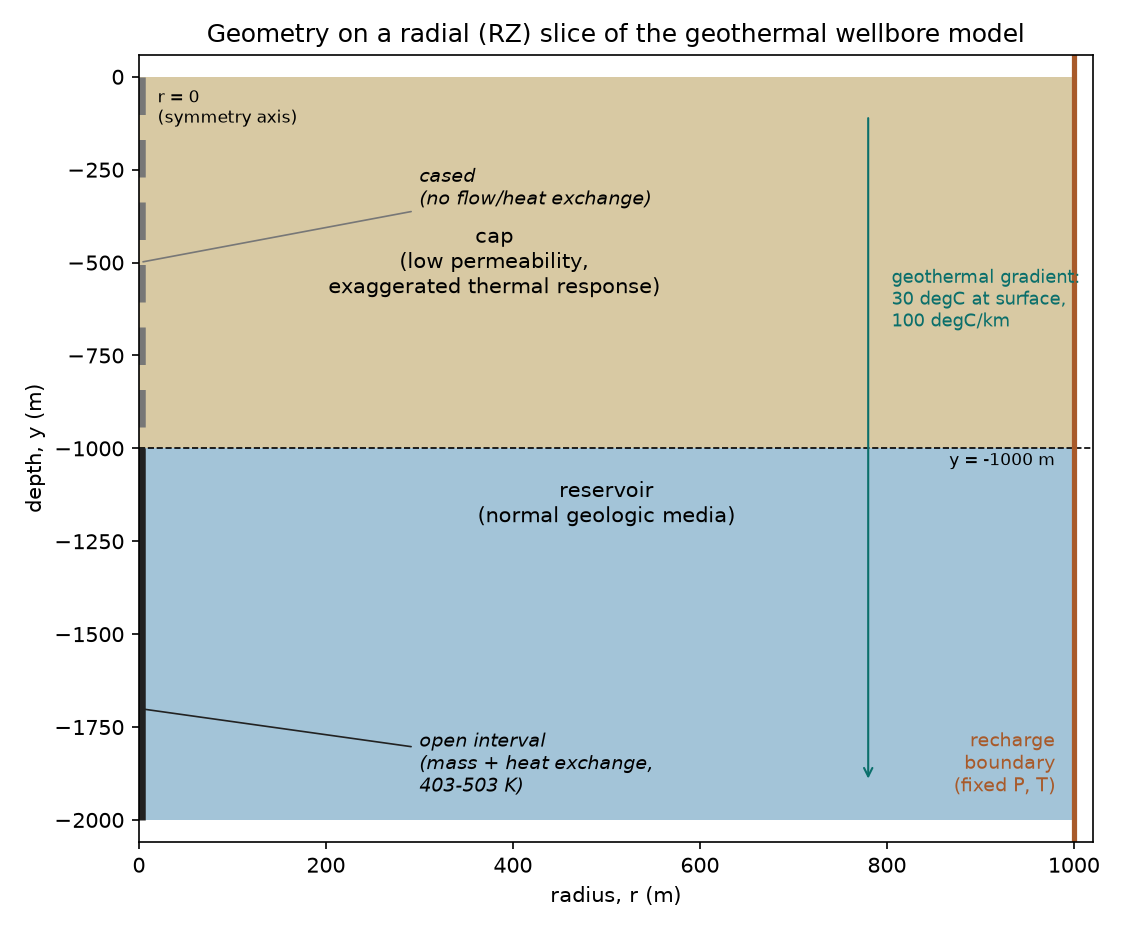
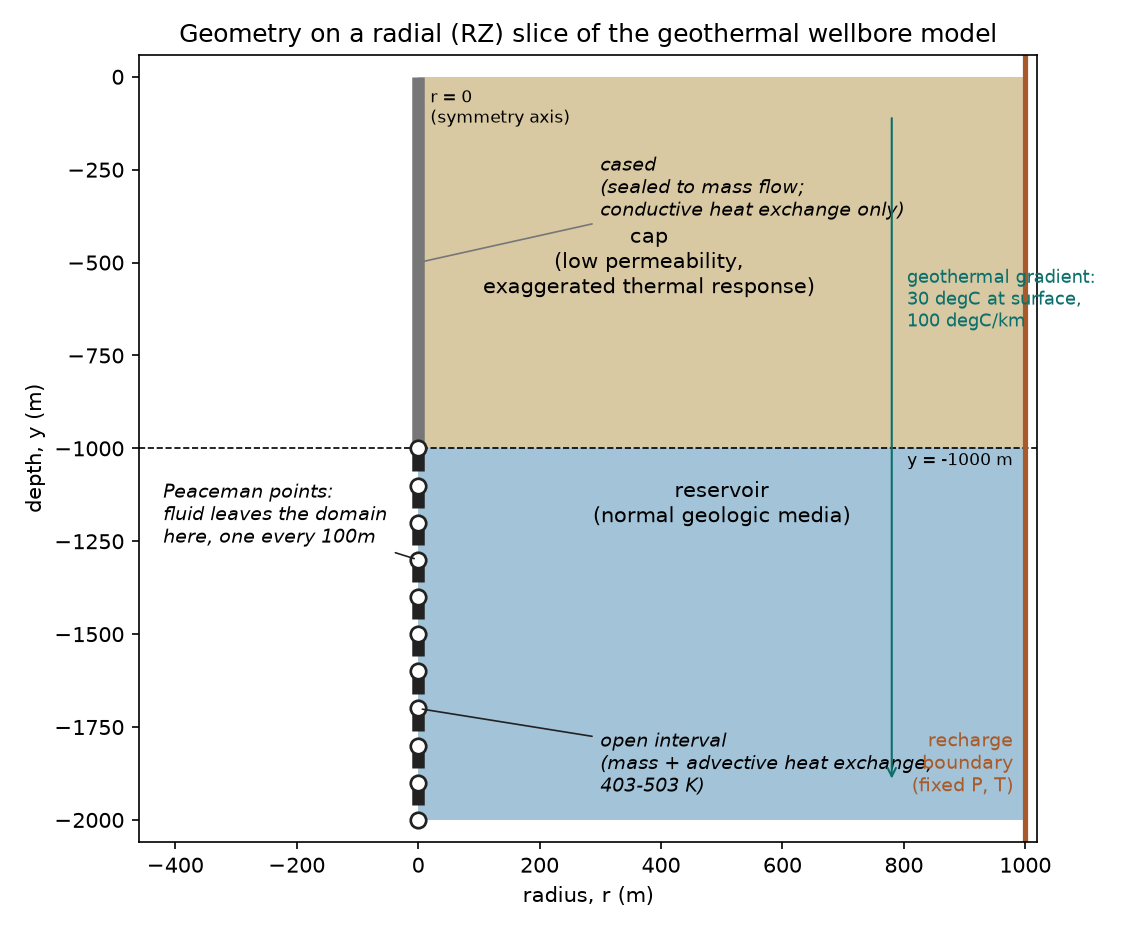
Document the cased-section heat exchange in the example write-up
Split the Introduction into two subsections (thermal fluid production,
borehole heat exchange), the latter now explaining both heat-exchange
mechanisms with their governing equations: the advective open-interval
term, and PorousFlowCasedBoreholeHeatExchange's derived-temperature ODE
and its closed-form exponential-relaxation solution, including the
mass-flux-weighted mixing temperature and the thermal-pressurization
constraint on heat_transfer_coefficient.

Revise the geometry schematic: the well line is now dashed over the
open interval (where fluid can enter) and solid over the cased section
(sealed to mass flow), with the 11 discrete Peaceman points marked
along the open interval to show exactly where fluid leaves the
formation - previously the dashed/solid mapping was reversed and no
points were shown.

Add a new cap_temperature_radial LineValueSampler (mid-cap depth,
y=-500) and a new plot_results.py figure showing temperature vs.
radius there at several times through the run, to visualize the small
radial thermal signal developing inside the cap itself, distinct from
the existing final-timestep snapshot at the cap/reservoir interface.

diff --git a/examples/geothermal_wellbore/make_schematic.py b/examples/geothermal_wellbore/make_schematic.py
@@ -12,6 +12,11 @@ Y_SURFACE = 0.0
 Y_INTERFACE = -1000.0  # cap/reservoir boundary, also the well's cased/open boundary
 Y_BOTTOM = -2000.0
 
+# The 11 Peaceman points where withdraw_fluid/withdraw_heat are active (well_character=1,
+# geothermal_wellbore.bh points y=-1000 to y=-2000 in 100m steps) - the only points where fluid
+# actually crosses from the formation into the well.
+OPEN_POINTS = [Y_INTERFACE - 100.0 * i for i in range(11)]
+
 
 def main():
     fig, ax = plt.subplots(figsize=(7.5, 6.2))
@@ -28,17 +33,33 @@ def main():
             ha="center", va="center", fontsize=10)
 
     # Well, drawn as a bold line at r=0 (true radius 0.1m, far too thin to draw to scale) -
-    # dashed/grey for the cased section, solid/dark for the open (perforated) section.
+    # solid where the casing seals the well off from the formation (no mass can cross; only
+    # PorousFlowCasedBoreholeHeatExchange's conductive heat exchange applies), dashed where the
+    # well is open to the formation and fluid can actually cross into it. Dashes are drawn as
+    # explicit short segments in data coordinates (one dash+gap per 100m Peaceman spacing)
+    # rather than via a point-based linestyle, which doesn't read clearly at this linewidth.
     ax.plot([0, 0], [Y_SURFACE, Y_INTERFACE], color="#777777", linewidth=6,
-            linestyle=(0, (3, 2)), solid_capstyle="butt", zorder=2)
-    ax.plot([0, 0], [Y_INTERFACE, Y_BOTTOM], color="#222222", linewidth=6,
             solid_capstyle="butt", zorder=2)
+    dash_len = 60.0  # of each 100m point-to-point segment; the rest is the gap
+    for y0 in OPEN_POINTS[:-1]:
+        ax.plot([0, 0], [y0, y0 - dash_len], color="#222222", linewidth=6,
+                solid_capstyle="butt", zorder=2)
 
-    ax.annotate("cased\n(no flow/heat exchange)", xy=(0, -500), xytext=(R_MAX * 0.30, -300),
+    # Peaceman points along the open interval - the discrete locations where mass (and, via the
+    # enthalpy it carries, heat) actually leaves the formation and enters the well.
+    ax.scatter([0] * len(OPEN_POINTS), OPEN_POINTS, s=55, facecolor="white",
+               edgecolor="#222222", linewidth=1.3, zorder=3)
+
+    ax.annotate("cased\n(sealed to mass flow;\nconductive heat exchange only)",
+                xy=(0, -500), xytext=(R_MAX * 0.30, -300),
                 fontsize=9, style="italic", ha="left", va="center",
                 arrowprops=dict(arrowstyle="-", color="#777777", lw=0.8))
-    ax.annotate("open interval\n(mass + heat exchange,\n403-503 K)", xy=(0, -1700),
+    ax.annotate("open interval\n(mass + advective heat exchange,\n403-503 K)", xy=(0, -1700),
                 xytext=(R_MAX * 0.30, -1850), fontsize=9, style="italic", ha="left", va="center",
+                arrowprops=dict(arrowstyle="-", color="#222222", lw=0.8))
+    ax.annotate("Peaceman points:\nfluid leaves the domain\nhere, one every 100m",
+                xy=(0, OPEN_POINTS[3]), xytext=(-R_MAX * 0.42, OPEN_POINTS[3] + 120),
+                fontsize=9, style="italic", ha="left", va="center",
                 arrowprops=dict(arrowstyle="-", color="#222222", lw=0.8))
 
     # Interface line
@@ -61,7 +82,7 @@ def main():
             "geothermal gradient:\n30 degC at surface,\n100 degC/km",
             fontsize=8.5, color="#0b6f6b", va="center")
 
-    ax.set_xlim(0, R_MAX * 1.02)
+    ax.set_xlim(-R_MAX * 0.46, R_MAX * 1.02)
     ax.set_ylim(Y_BOTTOM * 1.03, 60)
     ax.set_xlabel("radius, r (m)")
     ax.set_ylabel("depth, y (m)")

diff --git a/examples/geothermal_wellbore/plot_results.py b/examples/geothermal_wellbore/plot_results.py
@@ -40,6 +40,20 @@ def load_final_line(prefix, sampler):
     return pd.read_csv(files[-1])
 
 
+def load_lines_near_times(prefix, sampler, target_times):
+    """Load the sampler output file closest to each target time (seconds), skipping index 0
+    (this model's VectorPostprocessors report empty output at t=0). File index N is assumed to
+    align with row N of the main CSV (both advance one-for-one with accepted timesteps), which
+    holds as long as the run has no cut/retried timesteps."""
+    files = sorted(glob.glob(f"{prefix}_out_{sampler}_*.csv"))[1:]
+    times = load_main(prefix)["time"].to_numpy()[1:]
+    selected = []
+    for target in target_times:
+        idx = int(abs(times - target).argmin())
+        selected.append((times[idx], pd.read_csv(files[idx])))
+    return selected
+
+
 def main():
     old, new = load_main(OLD), load_main(NEW)
 
@@ -132,6 +146,25 @@ def main():
     fig.tight_layout()
     fig.savefig("temperature_halo.png", dpi=150)
     print("Saved temperature_halo.png")
+
+    # 5. Temperature vs. radius at mid-cap depth (y=-500), at a handful of times through the
+    # run - shows the radial thermal signal developing inside the cap itself (unit_weight_fp
+    # variant only, since the point is the cased-section heat exchange's own effect, not the
+    # pressure-treatment comparison from plots 1-2).
+    target_times = [i * YEAR for i in range(6)]
+    snapshots = load_lines_near_times(NEW, "cap_temperature_radial", target_times)
+    fig, ax = plt.subplots(figsize=(7, 5))
+    cmap = plt.get_cmap("viridis")
+    for i, (t, df) in enumerate(snapshots):
+        ax.plot(df["x"], df["temperature"], color=cmap(i / (len(snapshots) - 1)),
+                label=f"t = {t / YEAR:.1f} yr")
+    ax.set_xlabel("radius, r (m)")
+    ax.set_ylabel("temperature (K)")
+    ax.set_title("Temperature vs. radius at mid-cap depth (y=-500), unit_weight_fp")
+    ax.legend(fontsize=8)
+    fig.tight_layout()
+    fig.savefig("cap_temperature_radial.png", dpi=150)
+    print("Saved cap_temperature_radial.png")
 
 
 if __name__ == "__main__":

diff --git a/doc/content/examples/geothermal_wellbore.md b/doc/content/examples/geothermal_wellbore.md
@@ -2,6 +2,13 @@
 
 ## Introduction
 
+This example has two goals: to show how a temperature-dependent fluid density changes the
+pressure needed to produce hot water from a geothermal well, and to show the two distinct
+mechanisms by which the well exchanges heat with the rock around it - advectively, where fluid
+actually crosses into the well, and conductively, through the casing wall above that.
+
+### Thermal fluid production
+
 A geothermal production well draws hot water up from depth, and the pressure needed to lift
 that column depends on how dense the water is along the way. [PorousFlowPeacemanBorehole.md]
 has traditionally built this wellbore pressure profile from a single constant fluid unit weight
@@ -20,11 +27,77 @@ This example demonstrates the alternative: `unit_weight_fp`, which integrates a
 temperature-dependent fluid density along the well instead (see
 [porous_flow/sinks.md#the-wellbore-pressure-with-a-temperature-dependent-fluid-density] for the
 full formula), together with per-point flux reporting via [PorousFlowPointFluxQuantity.md] and
-[PorousFlowPlotPointFluxQuantity.md]. It models a single well: mass extraction, plus
-wellbore-reservoir heat exchange (a second [PorousFlowPeacemanBorehole.md] with
-`use_enthalpy = true`) - the correct, and only, mechanism for well-to-formation heat exchange in
-the PorousFlow module, since it is advective only, via the enthalpy carried by the extracted
-fluid.
+[PorousFlowPlotPointFluxQuantity.md].
+
+### Borehole heat exchange
+
+The well is cased through the cap and open to the formation only over its bottom 1000m (see
+[geothermal_wellbore_geometry_fig]), and it exchanges heat with the rock two different ways
+depending on whether mass can actually cross the well wall there:
+
+- +Open interval:+ wherever fluid physically crosses from the formation into the well, it
+  carries its own enthalpy with it - a second [PorousFlowPeacemanBorehole.md], with
+  `use_enthalpy = true`, models exactly this:
+
+  \begin{equation}
+  Q_{\mathrm{adv}} = \dot{m} \, h_{\mathrm{fluid}} \ ,
+  \end{equation}
+
+  the produced mass rate $\dot{m}$ times the fluid's own enthalpy per unit mass
+  $h_{\mathrm{fluid}}$. This is the correct, and only, mechanism for well-to-formation heat
+  exchange available in the PorousFlow module on its own, since it is advective only - it is
+  exactly zero wherever $\dot{m}$ is zero, which is everywhere above the open interval.
+- +Cased section:+ above the open interval, casing seals the well off from the formation, so
+  no more mass crosses the well wall - but the produced fluid keeps flowing up through the cased
+  section, and still loses or gains heat *conductively* through the casing wall as it passes
+  through the surrounding cap. [PorousFlowCasedBoreholeHeatExchange.md] models this by deriving
+  a wellbore fluid temperature $T_{\mathrm{well}}$ (not a solved variable) from
+
+  \begin{equation}
+  \frac{dT_{\mathrm{well}}}{ds} = -\frac{hP}{\dot{m}c_{p}}
+  \left(T_{\mathrm{well}} - \bar{T}_{\mathrm{formation}}\right) \ ,
+  \end{equation}
+
+  where $s$ is distance up from the open/cased boundary, $h$ is `heat_transfer_coefficient`, $P$
+  is the casing perimeter, and $\bar{T}_{\mathrm{formation}}$ is a single, length-weighted
+  average formation temperature over the whole cased section - not solved point by point, since
+  a single `DiracKernel` cannot assemble a Jacobian entry that couples one well point's
+  temperature to another's (the same limitation [PorousFlowPeacemanBorehole.md] documents for
+  its own `unit_weight_fp`). This has the closed-form solution
+
+  \begin{equation}
+  T_{\mathrm{well}}(s) = \bar{T}_{\mathrm{formation}}
+  + \left(T_{\mathrm{mix}} - \bar{T}_{\mathrm{formation}}\right)
+  \exp\left(-\frac{hPs}{\dot{m}c_{p}}\right) \ ,
+  \end{equation}
+
+  starting from $T_{\mathrm{mix}}$, the mass-flux-weighted mixing temperature of everything
+  produced across the open interval below:
+
+  \begin{equation}
+  T_{\mathrm{mix}} = \frac{\sum_{i} \dot{m}_{i} T_{i}}{\sum_{i} \dot{m}_{i}} \ ,
+  \end{equation}
+
+  where the sum runs over the open interval's Peaceman points, $\dot{m}_{i}$ is the mass flux
+  reported at point $i$, and $T_{i}$ the local formation temperature there - fluid produced
+  deeper in the open interval is hotter, and most of the produced mass typically enters there,
+  so this mixing average (not just the formation temperature at the open/cased boundary) is the
+  physically correct starting condition. $h$, $\bar{T}_{\mathrm{formation}}$, $T_{\mathrm{mix}}$
+  and $c_{p}$ (the fluid's specific heat) are all sampled from the *previous* time step's
+  converged solution, not the current nonlinear iterate - see
+  [PorousFlowCasedBoreholeHeatExchange.md] for why.
+
+  $h$ represents the casing's own thermal resistance (steel, cement, the in-well film), not the
+  formation's, which is already resolved by the mesh, and is deliberately kept small
+  (0.01 $\mathrm{W/m^2/K}$, well below a nominal casing-resistance estimate) for a reason
+  specific to this example: the cap's permeability is set very low precisely so the well's
+  pressure influence stays confined to a small halo, and heat injected into a low-permeability
+  rock thermally pressurizes the trapped pore fluid instead of relieving via flow. Above roughly
+  0.1 $\mathrm{W/m^2/K}$ that pressurization runs away and the simulation fails to converge,
+  regardless of how small a fraction of the advected heat rate $Q_{\mathrm{adv}}$ it represents.
+  The resulting conductive exchange is real but small - about 0.08% of the advected heat rate -
+  a real effect, not a dominant one; see [geothermal_wellbore_cap_temperature_fig] for where it
+  shows up.
 
 ## Model setup
 
@@ -40,12 +113,19 @@ which means gravity acts along what is usually thought of as the "y" direction:
 The geometry is shown in [geothermal_wellbore_geometry_fig]: a 1000m-radius, 2000m-deep domain,
 with a lower-permeability cap over the top 1000m and the reservoir below it. The well is cased
 through the cap and open to the formation only over its bottom 1000m - so casing coincides with
-the cap and the open completion with the reservoir, matching conventional well design.
+the cap and the open completion with the reservoir, matching conventional well design. On the
+well line itself, dashed marks the open interval, where fluid can actually cross into the well,
+and solid marks the cased section, which is sealed to mass flow. The white dots along the open
+interval are the 11 discrete Peaceman points (from `geothermal_wellbore.bh`, 100m apart) where
+`withdraw_fluid`/`withdraw_heat` actually act - the only locations where fluid leaves the
+formation and enters the well.
 
 !media geothermal_wellbore_schematic.png
   id=geothermal_wellbore_geometry_fig
   style=width:80%;margin-left:auto;margin-right:auto;
-  caption=Geometry on a radial slice of the geothermal wellbore model.
+  caption=Geometry on a radial slice of the geothermal wellbore model. Dashed: open interval
+  (fluid can cross into the well); solid: cased section (sealed to mass flow, conductive heat
+  exchange only). White dots: the discrete Peaceman points where fluid leaves the formation.
 
 A geothermal gradient (30 degC at the surface, 100 degC/km) sets the initial and far-field
 boundary temperature, with a matching hydrostatic pressure profile:
@@ -138,3 +218,19 @@ well-centered thermal halo around the well, roughly 100-300m across, for both tr
   id=geothermal_wellbore_halo_fig
   style=width:65%;margin-left:auto;margin-right:auto;
   caption=Temperature vs. radius at the cap/reservoir interface, final timestep.
+
+[geothermal_wellbore_cap_temperature_fig] shows the same kind of radial profile, but strictly
+*inside* the cap (y=-500, `unit_weight_fp` treatment only) and at a handful of times through the
+run, rather than a single final snapshot at the cap/reservoir boundary. The profile is flat at
+the undisturbed background (353.15 K, the geothermal gradient's value at this depth) at early
+times, then a small, growing elevation appears within about 50m of the well as the cased
+section's conductive heat exchange (and whatever advective signal has diffused up from the open
+interval below) warms the near-well cap over the 5-year run - visibly real, but consistent with
+[#borehole-heat-exchange]'s ~0.08% figure: a few hundredths of a kelvin, not the multi-kelvin
+halo already visible at the cap/reservoir interface in [geothermal_wellbore_halo_fig].
+
+!media geothermal_wellbore_cap_temperature_radial.png
+  id=geothermal_wellbore_cap_temperature_fig
+  style=width:65%;margin-left:auto;margin-right:auto;
+  caption=Temperature vs. radius at mid-cap depth (y=-500), at several times through the run,
+  `unit_weight_fp` treatment.
